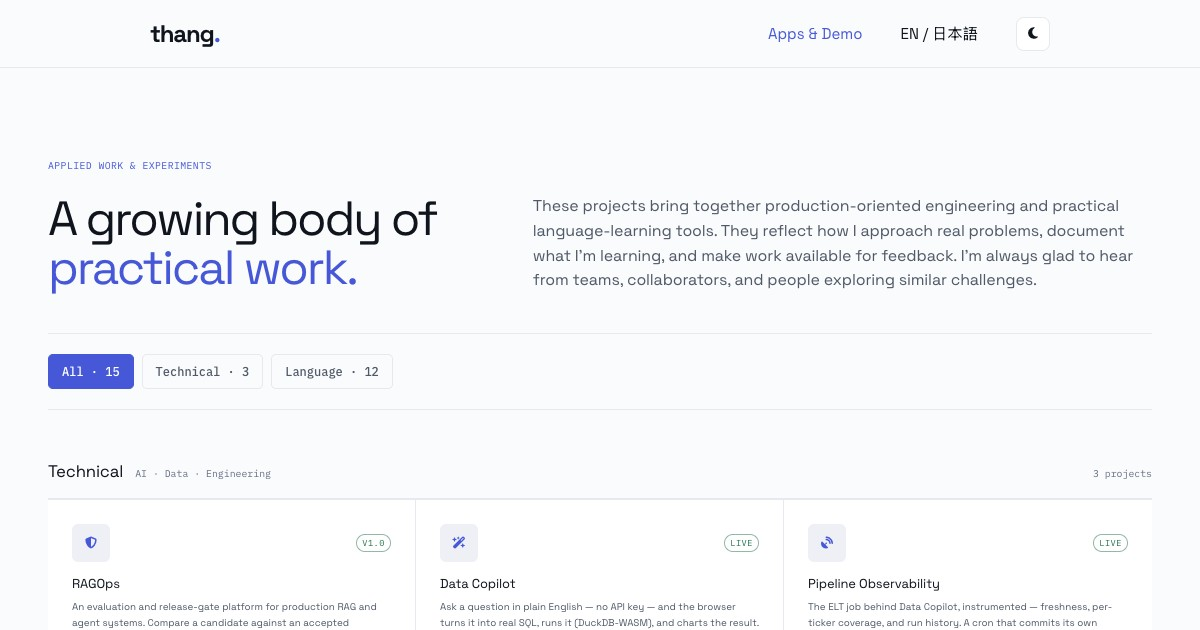
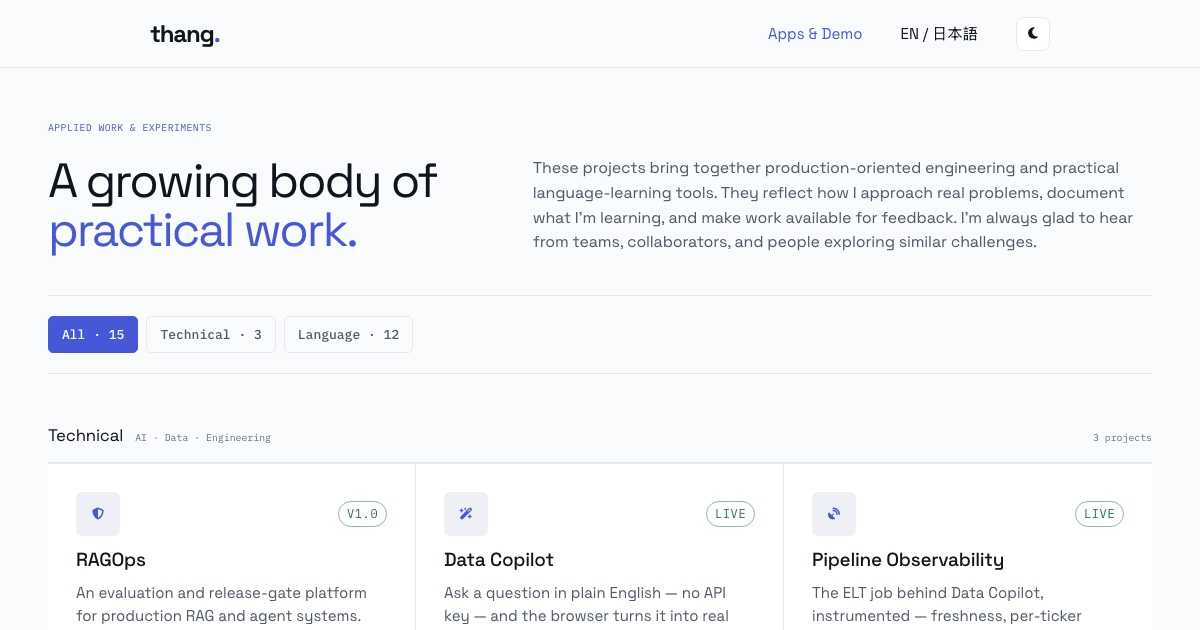
style(apps): improve catalog readability [skip ci]

diff --git a/apps/index.html b/apps/index.html
@@ -31,7 +31,7 @@
   </script>
 
   <style>
-    body { background: var(--bg); color: var(--text); font-family: var(--font-sans); font-size: var(--step-0); line-height: 1.6; -webkit-font-smoothing: antialiased; }
+    body { background: var(--bg); color: var(--text); font-family: var(--font-sans); font-size: 16px; line-height: 1.6; -webkit-font-smoothing: antialiased; }
     .font-mono { font-family: var(--font-mono); }
     .wrap { width: min(var(--content-width), 100% - 2 * var(--space-md)); margin-inline: auto; }
     a { color: inherit; text-decoration: none; }
@@ -62,17 +62,17 @@
 
     .app-card .ac-top { display: flex; align-items: center; justify-content: space-between; margin-bottom: var(--space-sm); }
     .app-card .ac-icon { width: 44px; height: 44px; border-radius: 11px; display: grid; place-items: center; font-size: 1.3rem; background: var(--accent-glow); color: var(--accent); }
-    .app-card .ac-status { font-family: var(--font-mono); font-size: .72rem; letter-spacing: .05em; text-transform: uppercase; color: var(--success); border: 1px solid color-mix(in srgb, var(--success) 50%, transparent); border-radius: 999px; padding: .15em .6em; }
+    .app-card .ac-status { font-family: var(--font-mono); font-size: 12px; letter-spacing: .05em; text-transform: uppercase; color: var(--success); border: 1px solid color-mix(in srgb, var(--success) 50%, transparent); border-radius: 999px; padding: .2em .65em; }
     .app-card .ac-status.wip { color: var(--text-dim); border-color: var(--border); }
 
-    .app-card h3 { font-family: var(--font-display); font-size: var(--step-1); letter-spacing: -.01em; }
-    .app-card .ac-jp { font-family: var(--font-mono); color: var(--text-dim); font-size: var(--step--1); margin-left: .5em; }
-    .app-card p { color: var(--text-muted); font-size: var(--step--1); margin-top: var(--space-2xs); flex: 1; }
+    .app-card h3 { font-family: var(--font-display); font-size: 19px; line-height: 1.3; font-weight: 500; letter-spacing: -.015em; }
+    .app-card .ac-jp { font-family: var(--font-mono); color: var(--text-dim); font-size: 13px; line-height: 1.45; margin-left: .5em; }
+    .app-card p { color: var(--text-muted); font-size: 15px; line-height: 1.55; margin-top: 8px; flex: 1; }
 
     .app-card .ac-tags { display: flex; flex-wrap: wrap; gap: .35rem; margin-top: var(--space-sm); }
-    .app-card .ac-tag { font-family: var(--font-mono); font-size: .72rem; color: var(--text-muted); background: var(--surface-2); border: 1px solid var(--border); border-radius: 999px; padding: .15em .6em; }
+    .app-card .ac-tag { font-family: var(--font-mono); font-size: 12px; line-height: 1.35; color: var(--text-muted); background: var(--surface-2); border: 1px solid var(--border); border-radius: 999px; padding: .25em .65em; }
 
-    .app-card .ac-open { display: inline-flex; align-items: center; gap: .4em; margin-top: var(--space-md); color: var(--accent); font-weight: 600; font-size: var(--step--1); }
+    .app-card .ac-open { display: inline-flex; align-items: center; gap: .4em; margin-top: var(--space-md); color: var(--accent); font-weight: 600; font-size: 14px; line-height: 1.4; }
     .app-card .ac-open::after { content: "\2192"; transition: transform .2s var(--ease); }
     .app-card:hover .ac-open::after { transform: translateX(4px); }
     .app-card a.ac-cover { position: absolute; inset: 0; z-index: 1; } /* whole card clickable */
@@ -80,21 +80,22 @@
     .site-foot { margin-top: var(--space-2xl); padding: 20px 48px; border-top: 1px solid var(--border); color: var(--text-dim); font: 400 12px 'IBM Plex Mono', var(--font-mono); text-align: center; }
     .site-foot span { color: #aab1bc; }
 
-    .apps-nav{height:75px;padding:0 48px;border-bottom:1px solid var(--border);display:flex;align-items:center;justify-content:space-between;position:sticky;top:0;background:color-mix(in srgb,var(--bg) 92%,transparent);backdrop-filter:blur(10px);z-index:10}.apps-brand{font:600 15px var(--font-mono)}.apps-brand b{color:var(--accent)}.apps-brand span{color:var(--muted);font-weight:400}.apps-nav nav{display:flex;gap:26px;align-items:center;color:var(--body);font-size:13px}.theme-button{width:31px;height:31px;border:1px solid var(--border);border-radius:50%;background:transparent;color:var(--ink)}.filters{display:flex;flex-wrap:wrap;gap:10px;margin-bottom:42px}.filter{border:1px solid var(--border);border-radius:99px;padding:8px 15px;background:transparent;color:var(--body);font:500 12px var(--font-mono);cursor:pointer}.filter.active{background:var(--ink);color:var(--bg);border-color:var(--ink)}.apps-intro .eyebrow{color:var(--accent)}.apps-intro h1{font-size:44px}.apps-grid{grid-template-columns:repeat(3,1fr);gap:20px}.app-card{padding:22px}.app-card .ac-icon{width:38px;height:38px;border-radius:8px}.apps-cat[hidden]{display:none}
+    .apps-nav{height:75px;padding:0 48px;border-bottom:1px solid var(--border);display:flex;align-items:center;justify-content:space-between;position:sticky;top:0;background:color-mix(in srgb,var(--bg) 92%,transparent);backdrop-filter:blur(10px);z-index:10}.apps-brand{font:600 15px var(--font-mono)}.apps-brand b{color:var(--accent)}.apps-brand span{color:var(--muted);font-weight:400}.apps-nav nav{display:flex;gap:26px;align-items:center;color:var(--body);font-size:13px}.theme-button{width:31px;height:31px;border:1px solid var(--border);border-radius:50%;background:transparent;color:var(--ink)}.filters{display:flex;flex-wrap:wrap;gap:10px;margin-bottom:42px}.filter{border:1px solid var(--border);border-radius:99px;padding:8px 15px;background:transparent;color:var(--body);font:500 13px var(--font-mono);cursor:pointer}.filter.active{background:var(--ink);color:var(--bg);border-color:var(--ink)}.apps-intro .eyebrow{color:var(--accent)}.apps-intro h1{font-size:44px}.apps-grid{grid-template-columns:repeat(3,1fr);gap:20px}.app-card{padding:22px}.app-card .ac-icon{width:44px;height:44px;border-radius:8px}.apps-cat[hidden]{display:none}
     @media(max-width:1400px){.apps-intro .lead{white-space:normal}}@media(max-width:900px){.apps-grid{grid-template-columns:repeat(2,1fr)}}@media (max-width: 640px) {.apps-nav{padding:0 24px}.apps-nav nav a{display:none}.wrap{width:calc(100% - 48px)}.apps-intro h1{font-size:36px}.apps-grid{grid-template-columns:1fr}.apps-main{padding-top:48px}}
-    .theme-button{display:grid;place-items:center;cursor:pointer}.ac-icon i{font-size:1rem}.sr-only{position:absolute;width:1px;height:1px;padding:0;margin:-1px;overflow:hidden;clip:rect(0,0,0,0);white-space:nowrap;border:0}
+    .theme-button{display:grid;place-items:center;cursor:pointer}.apps-menu{display:none;background:transparent;border:0;color:var(--body);font:500 12px var(--font-mono);cursor:pointer}.ac-icon i{font-size:1rem}.sr-only{position:absolute;width:1px;height:1px;padding:0;margin:-1px;overflow:hidden;clip:rect(0,0,0,0);white-space:nowrap;border:0}
     .skip-link{position:fixed;left:12px;top:-60px;z-index:99;background:var(--ink);color:var(--bg);padding:10px}.skip-link:focus{top:12px}
     .wrap{width:min(1328px,calc(100% - 96px))}.apps-main{padding-top:16px}.apps-intro{display:grid;grid-template-columns:minmax(0,.8fr) minmax(360px,1.2fr);gap:72px;align-items:end;margin-bottom:40px}.apps-intro .eyebrow{grid-column:1/-1;margin-bottom:-52px}.apps-intro h1{font-size:clamp(42px,4vw,58px);line-height:1.02;letter-spacing:-.045em;margin:0}.apps-intro .lead{margin:0;white-space:normal;font-size:16px;line-height:1.55;max-width:720px}.apps-nav{height:68px;padding:0 56px}.apps-brand{font:700 24px var(--font-sans);letter-spacing:-.05em}.apps-brand span{display:none}.apps-nav nav{gap:38px;color:var(--ink);font-size:15px}.apps-nav nav a:first-child{color:var(--accent)}.theme-button{width:34px;height:34px;border-radius:8px;background:var(--surface)}
-    .apps-nav{display:block;width:100%;margin:0;padding:0}.apps-nav-inner{display:flex;align-items:center;justify-content:space-between;width:75%;height:100%;margin-inline:auto}.site-foot{width:100%;margin-inline:0;padding-inline:0}.site-foot-inner{width:75%;margin-inline:auto}
+    .apps-nav{display:block;width:100%;margin:0;padding:0}.apps-nav-inner{position:relative;display:flex;align-items:center;justify-content:space-between;width:75%;height:100%;margin-inline:auto}.site-foot{width:100%;margin-inline:0;padding-inline:0}.site-foot-inner{width:75%;margin-inline:auto}
     .catalog-controls{display:flex;align-items:center;margin-bottom:36px;padding:20px 0;border-top:1px solid var(--border);border-bottom:1px solid var(--border)}.filters{margin:0;gap:8px;justify-content:flex-start}.filter{border-radius:5px;padding:9px 13px}.filter.active{background:var(--accent);border-color:var(--accent);color:#fff}
-    .apps-cat{margin-top:48px}.apps-cat-head{margin-bottom:0;padding:0 0 13px}.apps-grid{grid-template-columns:repeat(3,minmax(0,1fr));gap:0;border-bottom:1px solid var(--border)}.app-card{min-height:280px;padding:24px;border-radius:0;border-width:1px 1px 0 0}.app-card[hidden]{display:none}.app-card:nth-child(3n){border-right:0}.app-card .ac-icon{border-radius:6px}.app-card .ac-tags{margin-top:18px}.app-card .ac-tag{background:transparent}.app-card .ac-open{margin-top:20px}
+    .apps-cat{margin-top:48px}.apps-cat-head{margin-bottom:0;padding:0 0 13px}.apps-grid{grid-template-columns:repeat(3,minmax(0,1fr));gap:0;border-bottom:1px solid var(--border)}.app-card{min-height:300px;padding:28px;border-radius:0;border-width:1px 1px 0 0}.app-card[hidden]{display:none}.app-card:nth-child(3n){border-right:0}.app-card .ac-icon{border-radius:6px}.app-card .ac-tags{margin-top:20px}.app-card .ac-tag{background:transparent}.app-card .ac-open{margin-top:22px}.app-card:focus-within{outline:2px solid var(--accent);outline-offset:-3px}
     @media(max-width:960px){.apps-intro{grid-template-columns:1fr;gap:20px}.apps-intro .eyebrow{grid-column:auto;margin-bottom:0}.apps-grid{grid-template-columns:repeat(2,minmax(0,1fr))}.app-card:nth-child(3n){border-right:1px solid var(--border)}.app-card:nth-child(2n){border-right:0}}
-    @media(max-width:640px){.apps-nav-inner,.site-foot-inner{width:calc(100% - 32px)}.apps-nav{height:65px;padding:0}.apps-brand{font-size:22px}.apps-nav nav{gap:10px;font-size:13px}.apps-nav nav a{display:block}.theme-button{width:32px;height:32px}.wrap{width:calc(100% - 48px)}.apps-main{padding-top:20px}.apps-intro h1{font-size:40px}.catalog-controls{padding-top:16px}.filters{flex-wrap:nowrap;overflow-x:auto;padding-bottom:5px}.filter{flex:0 0 auto}.apps-grid{grid-template-columns:1fr}.app-card,.app-card:nth-child(3n){border-right:0;min-height:0}}
+    @media(max-width:640px){.apps-nav-inner,.site-foot-inner{width:calc(100% - 32px)}.apps-nav{height:65px;padding:0}.apps-brand{font-size:22px}.apps-menu{display:block}.apps-nav nav{display:none;position:absolute;top:65px;left:0;right:0;padding:16px;background:var(--bg);border:1px solid var(--border);border-top:0;gap:16px;font-size:13px;flex-wrap:wrap}.apps-nav.open nav{display:flex}.apps-nav nav a{display:block}.theme-button{width:32px;height:32px}.wrap{width:calc(100% - 48px)}.apps-main{padding-top:20px}.apps-intro h1{font-size:40px}.catalog-controls{padding-top:16px}.filters{flex-wrap:nowrap;overflow-x:auto;padding-bottom:5px}.filter{flex:0 0 auto}.apps-grid{grid-template-columns:1fr}.app-card,.app-card:nth-child(3n){border-right:0;min-height:0}}
+    @media(max-width:480px){.filters{display:grid;grid-template-columns:repeat(2,minmax(0,1fr));width:100%;overflow:visible;padding-bottom:0}.filter{width:100%}.filter:last-child{grid-column:1/-1}}
   </style>
 </head>
 <body>
   <a class="skip-link" href="#main">Skip to apps</a>
-  <header class="apps-nav"><div class="apps-nav-inner"><a class="apps-brand" href="/">thang<b>.</b> <span>/ demos</span></a><nav><a href="/apps/" aria-current="page">Apps &amp; Demo</a><a href="/ja/">EN / 日本語</a><button class="theme-button" id="themeToggle" aria-label="Switch to light theme"><i class="fa-solid fa-sun" aria-hidden="true"></i></button></nav></div></header>
+  <header class="apps-nav"><div class="apps-nav-inner"><a class="apps-brand" href="/">thang<b>.</b> <span>/ demos</span></a><button class="apps-menu" aria-label="Open menu" aria-expanded="false" aria-controls="appsPrimaryNav">Menu</button><nav id="appsPrimaryNav" aria-label="Primary navigation"><a href="/apps/" aria-current="page">Apps &amp; Demo</a><a href="/ja/">EN / 日本語</a><button class="theme-button" id="themeToggle" aria-label="Switch to light theme"><i class="fa-solid fa-sun" aria-hidden="true"></i></button></nav></div></header>
   <main class="wrap apps-main" id="main">
     <section class="apps-intro">
       <span class="eyebrow">Applied work &amp; experiments</span>
@@ -418,6 +419,24 @@
       applyCatalog(params.get('category') || 'all', null);
 
       var themeButton = document.getElementById('themeToggle');
+      var menuButton = document.querySelector('.apps-menu');
+      var header = document.querySelector('.apps-nav');
+
+      function setMenu(open) {
+        header.classList.toggle('open', open);
+        menuButton.textContent = open ? 'Close' : 'Menu';
+        menuButton.setAttribute('aria-expanded', String(open));
+        menuButton.setAttribute('aria-label', open ? 'Close menu' : 'Open menu');
+      }
+
+      menuButton.addEventListener('click', function () { setMenu(!header.classList.contains('open')); });
+      header.querySelectorAll('nav a').forEach(function (link) {
+        link.addEventListener('click', function () { setMenu(false); });
+      });
+      document.addEventListener('keydown', function (event) {
+        if (event.key === 'Escape') setMenu(false);
+      });
+
       function syncThemeButton() {
         var dark = document.documentElement.dataset.theme === 'dark';
         themeButton.setAttribute('aria-label', dark ? 'Switch to light theme' : 'Switch to dark theme');

diff --git a/audit/apps-readability-v308/audit-report.md b/audit/apps-readability-v308/audit-report.md
@@ -1,0 +1,54 @@
+# Apps catalog readability audit — v3.0.8
+
+## Audit scope
+
+- Surface: `/apps/` only. Home is the fixed design reference and was not modified.
+- User goal: scan 15 projects, understand each app quickly, and open the right destination without struggling with small type.
+- Evidence: user-provided screenshot, current production Home and Apps captures, revised All/Language states, and a compact responsive capture.
+
+## Strengths
+
+- The Apps page already shares Home's Space Grotesk / IBM Plex Mono pairing, neutral background, indigo accent, borders, theme control, and 75% header/footer inner measure.
+- Technical and Language provide a durable information architecture, and the whole-card links keep the catalog easy to operate.
+- Filter counts and URL-addressable category states make the collection understandable and shareable.
+
+## Findings and fixes
+
+1. **P1 — Card descriptions were undersized for the available card area.**
+   - Evidence: descriptions rendered at about 13px inside wide three-column cards, creating weak hierarchy and difficult scanning.
+   - Fix: descriptions now use 15px with 1.55 line-height; titles use 19px/1.3.
+2. **P2 — Supporting text was consistently too small.**
+   - Evidence: status/tag text was about 11.5px and card CTAs about 13px.
+   - Fix: status and tags now use 12px with more internal padding; CTAs use 14px; filter labels use 13px.
+3. **P2 — Mobile Apps navigation drifted from Home and could be clipped.**
+   - Evidence: the previous compact capture showed both navigation links and the theme control competing for one narrow row.
+   - Fix: Apps now follows Home's mobile Menu/Close pattern, including `aria-expanded`, close-on-link, and Escape-to-close behavior.
+4. **P2 — Card density did not match the enlarged typography.**
+   - Fix: card padding increases from 24px to 28px, icons return to 44px, and minimum height increases from 280px to 300px so all card types retain a consistent rhythm.
+
+## Accessibility notes
+
+- Larger body, label, and CTA type improves perceivability and scanability.
+- Whole-card links retain accessible names; focus-within now receives a visible 2px accent outline.
+- Mobile menu state is exposed through `aria-expanded` and keyboard Escape behavior.
+- Screenshot review cannot establish full WCAG compliance; semantic and static validation are documented separately.
+
+## Evidence
+
+- `00-user-small-type-report.png`
+- `01-home-reference.png`
+- `02-apps-before.png`
+- `03-apps-after-all.png`
+- `04-apps-after-language.png`
+- `05-apps-after-compact-640.png`
+- `05-apps-menu-open-640.png`
+- `05-apps-after-mobile-390.png`
+- `06-readability-before-after.jpg`
+- `07-home-apps-system-comparison.jpg`
+- `08-card-type-focused-comparison.jpg`
+
+## Outcome
+
+All 15 cards inherit the same readable typography and interaction system. No Home files were changed.
+
+Interaction verification confirmed zero horizontal overflow at 640px and 390px, Menu/Close state changes, Escape-to-close, 12 visible Language cards with synchronized URL/ARIA state, theme-label updates, and zero browser error events. At 390px the filters reflow to a two-column row plus a full-width Language button, avoiding clipped labels and horizontal scrolling.

diff --git a/design-qa.md b/design-qa.md
@@ -1,4 +1,4 @@
-# Design QA — Professional resume copy and catalog refinement
+# Design QA — Apps readability aligned to the Home design system
 
 - Original visual direction: `/Users/thang/Documents/thangldw.github.io/audit/resume-v3/source-option-3.png`
 - User annotation truth: `/Users/thang/Documents/thangldw.github.io/audit/resume-v3/user-about-annotation.png`
@@ -13,13 +13,19 @@
 - Sticky-header fix evidence: `/Users/thang/Documents/thangldw.github.io/audit/resume-v3/home-header-inner-75-scrolled.png` and `/Users/thang/Documents/thangldw.github.io/audit/resume-v3/header-overlap-fix-comparison.jpg`
 - Apps intro spacing evidence: `/Users/thang/Documents/thangldw.github.io/audit/resume-v3/apps-hero-spacing-32-desktop.png`, `/Users/thang/Documents/thangldw.github.io/audit/resume-v3/apps-hero-spacing-28-mobile.png`, and `/Users/thang/Documents/thangldw.github.io/audit/resume-v3/apps-hero-spacing-comparison.jpg`
 - Compact Apps intro evidence: `/Users/thang/Documents/thangldw.github.io/audit/resume-v3/apps-hero-spacing-16-desktop.png`, `/Users/thang/Documents/thangldw.github.io/audit/resume-v3/apps-hero-spacing-20-mobile.png`, and `/Users/thang/Documents/thangldw.github.io/audit/resume-v3/apps-hero-spacing-compact-comparison.jpg`
+- Apps readability source truth: `/Users/thang/Documents/thangldw.github.io/audit/apps-readability-v308/00-user-small-type-report.png` and `/Users/thang/Documents/thangldw.github.io/audit/apps-readability-v308/01-home-reference.png`
+- Apps readability implementation: `/Users/thang/Documents/thangldw.github.io/audit/apps-readability-v308/03-apps-after-all.png`, `/Users/thang/Documents/thangldw.github.io/audit/apps-readability-v308/04-apps-after-language.png`, `/Users/thang/Documents/thangldw.github.io/audit/apps-readability-v308/05-apps-after-compact-640.png`, `/Users/thang/Documents/thangldw.github.io/audit/apps-readability-v308/05-apps-menu-open-640.png`, and `/Users/thang/Documents/thangldw.github.io/audit/apps-readability-v308/05-apps-after-mobile-390.png`
+- Full and focused comparisons: `/Users/thang/Documents/thangldw.github.io/audit/apps-readability-v308/06-readability-before-after.jpg`, `/Users/thang/Documents/thangldw.github.io/audit/apps-readability-v308/07-home-apps-system-comparison.jpg`, and `/Users/thang/Documents/thangldw.github.io/audit/apps-readability-v308/08-card-type-focused-comparison.jpg`
 - Responsive evidence: `/Users/thang/Documents/thangldw.github.io/audit/resume-v3/home-four-step-laptop-1024.png`, `/Users/thang/Documents/thangldw.github.io/audit/resume-v3/home-header-75-mobile-390.png`, and `/Users/thang/Documents/thangldw.github.io/audit/resume-v3/apps-header-75-mobile-390.png`
-- Viewports: 1440 × 1024 desktop, 1024 × 900 laptop, and 390 × 844 mobile
+- Viewports: 1440 × 1024 desktop, 1024 × 900 laptop, 640 × 900 compact navigation, and 390 × 844 mobile
 - State: light theme; Home default; Apps All, Technical, and Language filters
 
 ## Findings
 
 - No remaining P0, P1, or P2 issues.
+- Home remains the unchanged visual reference. The Apps page now carries the same type families, 16px base rhythm, neutral/indigo tokens, navigation behavior, and restrained borders.
+- All 15 Apps cards use 19px titles, 15px descriptions, 14px CTAs, and 12px tags/status labels. Increased line-height and padding improve scanning without changing project copy or category structure.
+- Apps mobile navigation now follows Home's Menu/Close pattern and supports `aria-expanded`, close-on-link, and Escape-to-close behavior.
 - Home no longer exposes location information or duplicated profile tags. `Languages`, `Open to Opportunities`, and the relocated learner-first availability statement form a clearer sidebar hierarchy.
 - About uses evidence from the earlier portfolio: 10+ years across statistical analysis, data engineering, and technical delivery; cross-sector experience; current front-line delivery leadership; and a clear learner/collaborator stance.
 - `How I Work` now covers Embed, Build, Enable, and Measure/Improve. All four numbered titles render as single-line phrases at 1440px, 1024px, and 390px.
@@ -40,9 +46,12 @@
 
 - Home: four method items; all titles one line; no location text; no horizontal overflow at 1440px, 1024px, or 390px.
 - Apps: no search control; All shows 15, Technical shows 3, and Language shows 12; filter URL state and legacy category aliases remain supported.
+- Apps card structure audit: all 15 cards include one title, description, tag group, CTA, accessible whole-card link, and status; the shared CSS applies the readability change across every row.
 - RAGOps accessible link target: `https://thangldw.github.io/ragops/`.
 - Computed Home and Apps desktop outer header widths: `1440px`; inner header/footer ratios: `0.75`; mobile inner widths: `358px` at a `390px` viewport.
 - Browser console errors: none.
+- Compact Apps interaction: Menu opens as a 608px panel in a 640px viewport, Escape closes it, document width remains 640px, Language exposes 12 cards and synchronized URL/ARIA state, and theme labels update in both directions.
+- At 390px, document width remains 390px, cards measure 342px, and filters reflow to 167px / 167px / 342px so no label is clipped.
 - Static validation covers 32 HTML pages, 10 redirects, 18 sitemap URLs, social metadata, and all local references.
 
 ## Comparison history
@@ -57,6 +66,7 @@
 8. Sticky-header correction: the user-reported scroll state revealed that narrowing the sticky element also narrowed its opaque backdrop. Home and Apps now keep a full-width sticky surface with a centered 75% inner container; the same scrolled state, 1440px desktop, and 390px mobile checks pass with zero overflow or console errors.
 9. Apps rhythm refinement: the intro moves 22px closer to the header on desktop and 12px closer on mobile. Same-viewport comparison confirms the tighter hierarchy while preserving the existing grid, copy, filter row, and card layout.
 10. Compact spacing iteration: following additional user feedback, desktop padding moves from 32px to 16px and mobile from 28px to 20px. The eyebrow retains visible separation from the header while the opening content now reads as part of the same page frame.
+11. Readability audit: the user-provided card screenshot and the current 1440px implementation confirmed undersized descriptions, supporting labels, and CTAs. All 15 cards now use a larger shared type scale; focused before/after evidence shows the improvement, Language state preserves long bilingual titles, and the compact capture confirms the Home-style mobile menu and one-column card rhythm.
 
 ## Follow-up polish
 

diff --git a/audit/release-2026-07-13/audit-report.md b/audit/release-2026-07-13/audit-report.md
@@ -28,6 +28,7 @@ The documented release backlog is complete. Pipeline history persists, long voca
 18. The user-reported sticky-header overlap is fixed on Home and Apps. The backdrop now remains full-width while only the inner navigation/footer content uses the centered 75% measure. At 1440px the outer header is 1440px and its inner row is 1080px; at 390px the inner row is 358px. The reproduced scrolled state, desktop/mobile overflow checks, and console checks pass.
 19. The Apps introduction now sits closer to the global header: top padding changes from 54px to 32px on desktop and from 40px to 28px on mobile. Same-viewport captures confirm a tighter opening hierarchy with no changes to the catalog grid or filter behavior.
 20. A second spacing refinement reduces the Apps introduction to 16px desktop and 20px mobile top padding. The eyebrow remains visually separated from the header, while desktop and mobile captures confirm the catalog layout is unchanged.
+21. The full 15-card Apps catalog was audited against the unchanged Home design reference and the user-reported screenshot. Shared card typography now uses 19px titles, 15px descriptions, 14px CTAs, and 12px tags/status labels, with larger card padding and visible focus treatment. Apps compact navigation now follows Home's Menu/Close and Escape behavior. At 390px the three filters reflow without clipping. All, Language, focused before/after, compact closed/open-menu, filter URL/ARIA, theme-label, zero-overflow, and zero-browser-error checks pass.
 
 ## Screenshots
 
@@ -62,6 +63,8 @@ The documented release backlog is complete. Pipeline history persists, long voca
 ![Apps intro spacing refinement](../resume-v3/apps-hero-spacing-comparison.jpg)
 
 ![Compact Apps intro spacing](../resume-v3/apps-hero-spacing-compact-comparison.jpg)
+
+![Apps card readability](../apps-readability-v308/08-card-type-focused-comparison.jpg)
 
 ## Evidence limits
 

diff --git a/NEXT-STEPS.md b/NEXT-STEPS.md
@@ -50,6 +50,7 @@ Updated: 2026-07-13
 
 ## Post-release improvements
 
+- [x] Audit all 15 Apps cards against Home and increase the shared title, description, tag, status, filter, and CTA type scale; align compact navigation with Home without modifying the Home page.
 - [x] Tighten the Apps opening rhythm to a compact 16px desktop / 20px mobile offset without changing the catalog layout.
 - [x] Fix the scrolled-header overlap by keeping the sticky backdrop full-width and constraining only Home/Apps header and footer content to the requested 75% desktop measure.
 - [x] Center Home and Apps header/footer bands at exactly 75% of the desktop viewport while preserving near-full-width mobile controls and navigation.